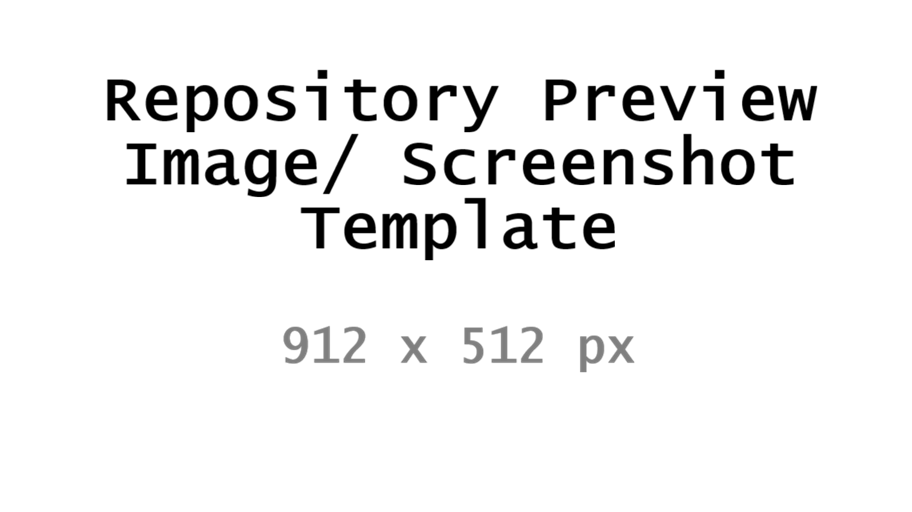
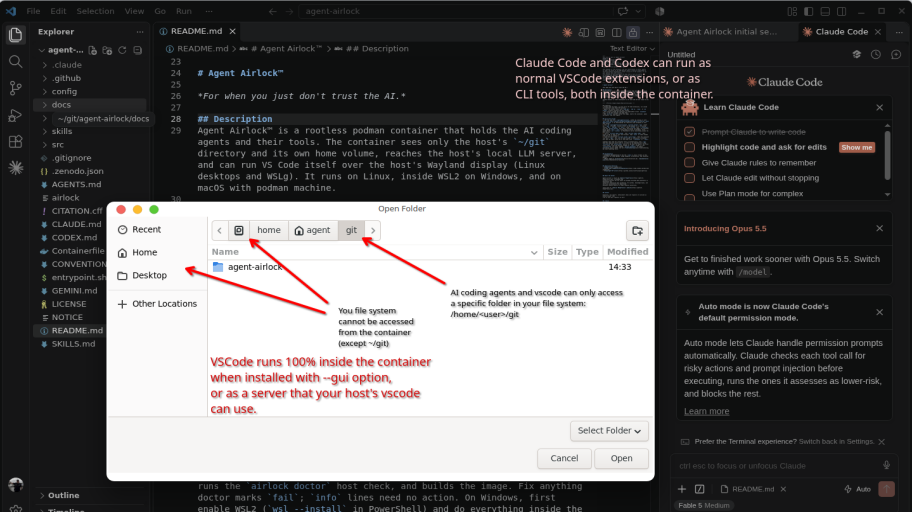
Added images.

diff --git a/README.md b/README.md
@@ -28,9 +28,7 @@ with this program. If not, see <https://www.gnu.org/licenses/>.
 ## Description
 Agent Airlock™ is a rootless podman container that holds the AI coding agents and their tools. The container sees only the host's `~/git` directory and its own home volume, reaches the host's local LLM server, and can run VS Code itself over the host's Wayland display (Linux desktops and WSLg). It runs on Linux, inside WSL2 on Windows, and on macOS with podman machine.
 
-***This project is under development as of 2026 and not yet ready to use.***
-
-<!-- ![Preview Image](images/Repo-preview.png) -->
+![Preview Image](images/Repo-preview.png)
 
 Key features:
 + Claude Code and Codex, as CLIs and as VS Code extensions, run inside the container with their MCP servers.
